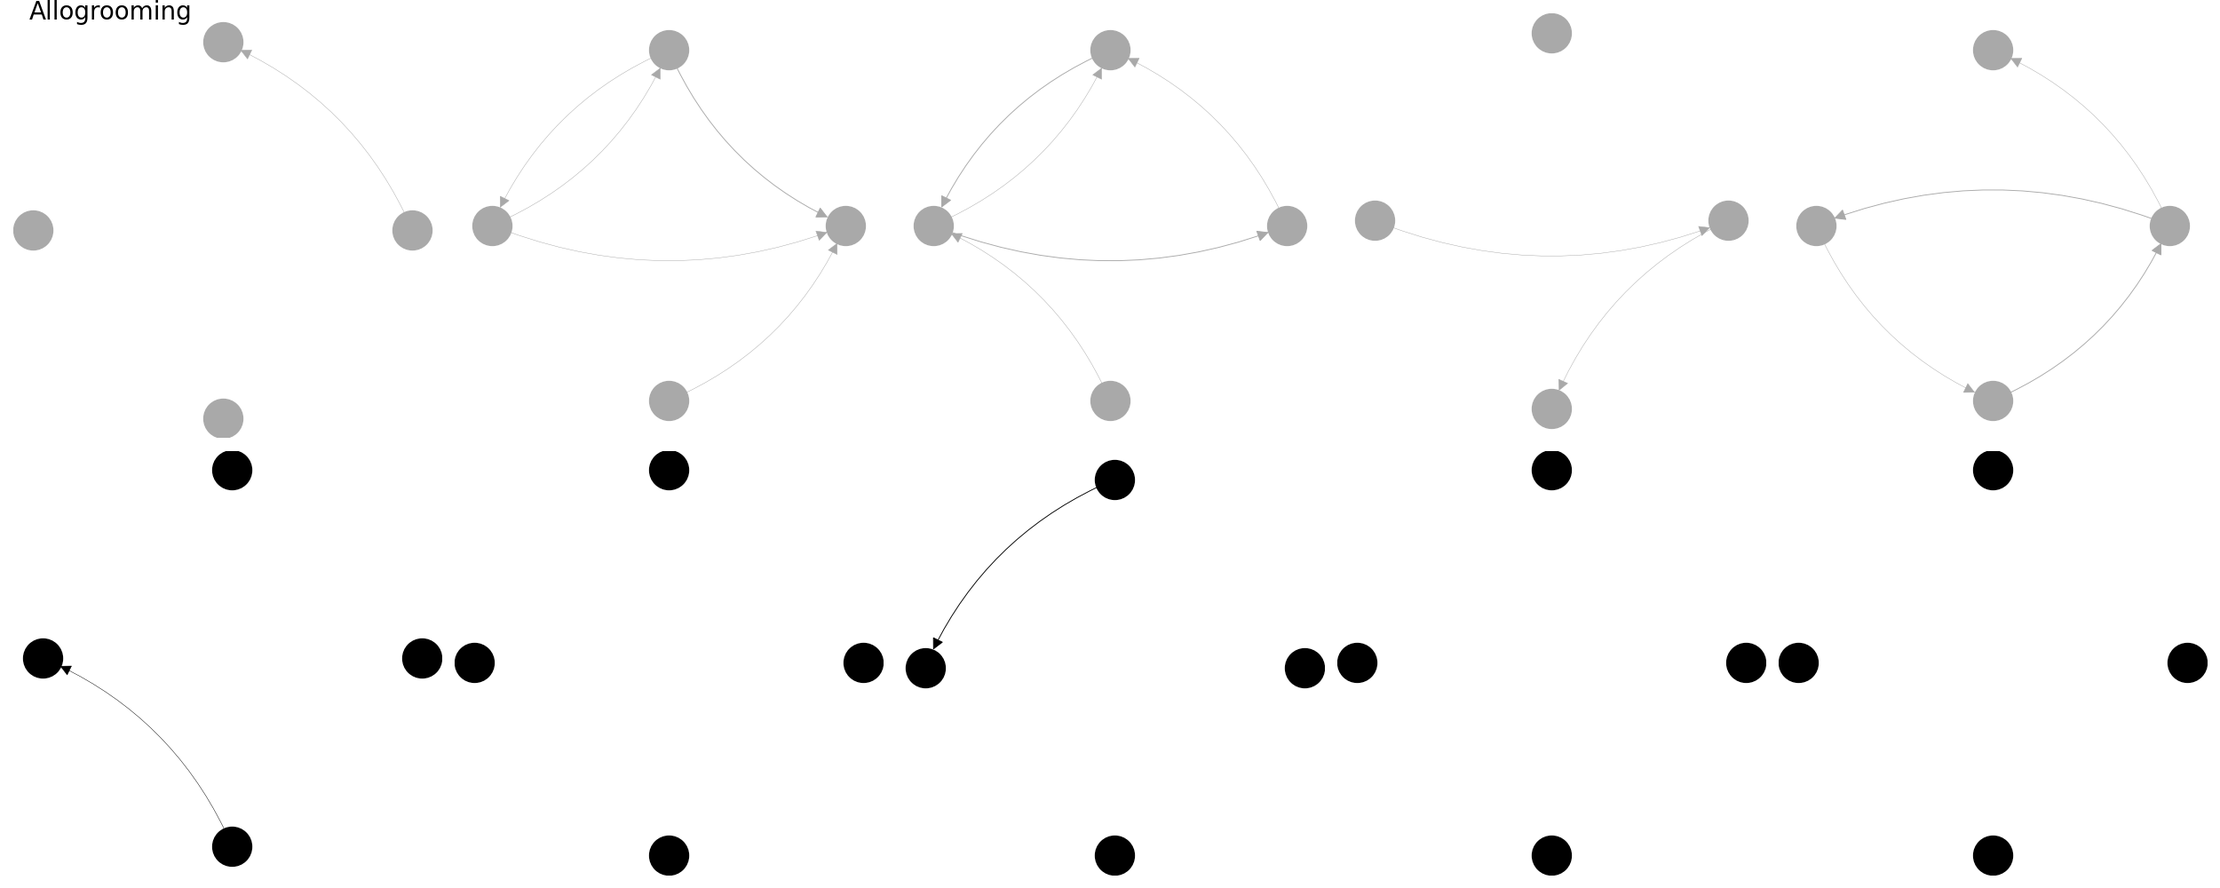
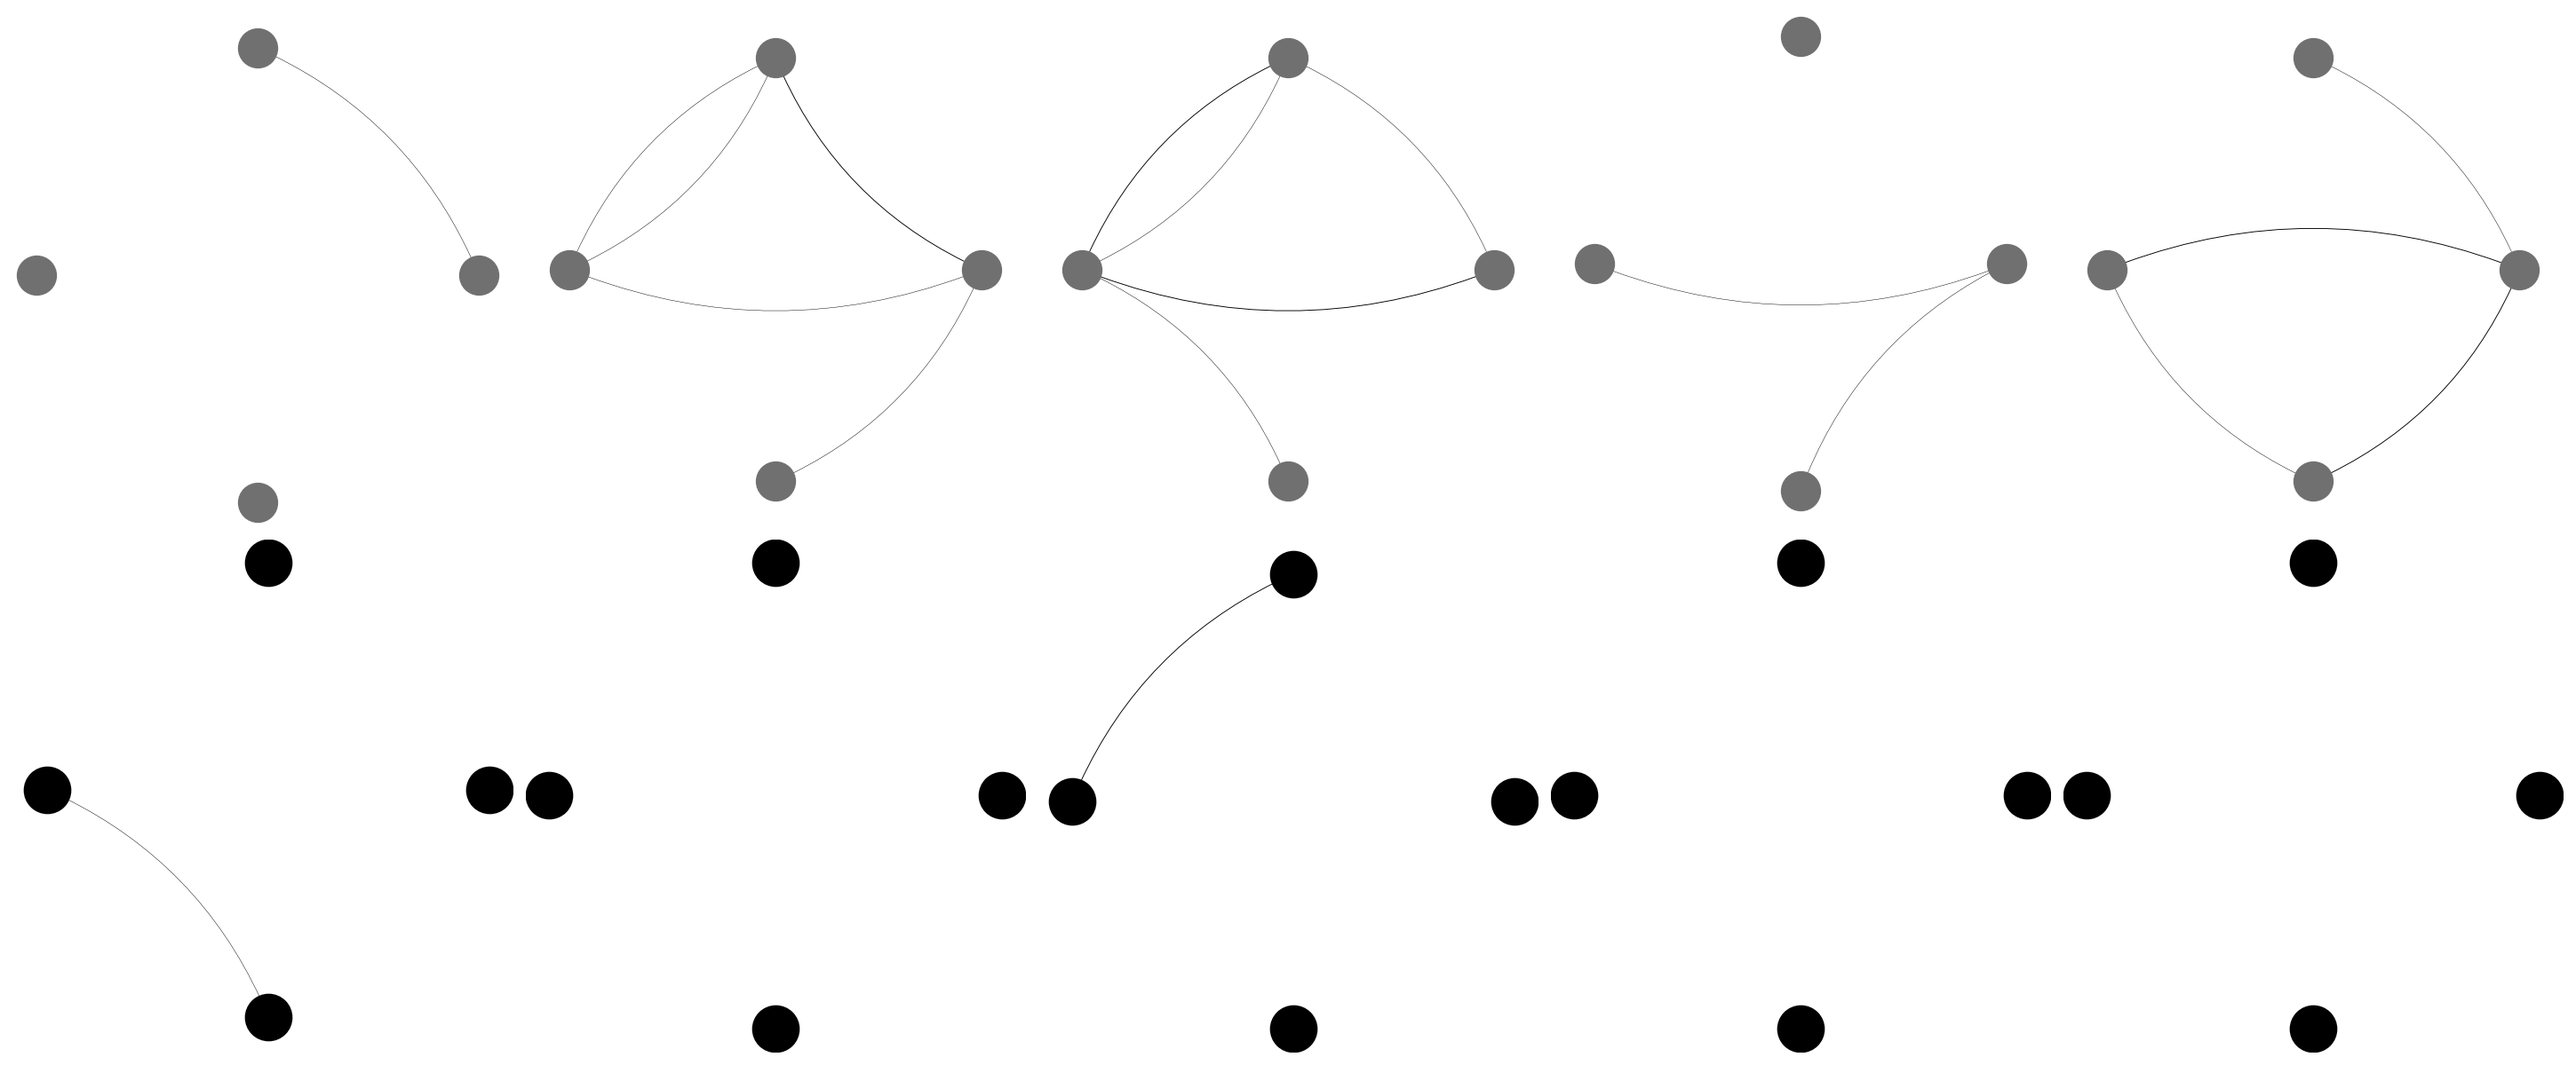
update sna plotting coloring

diff --git a/clean/SNA_plotting.py b/clean/SNA_plotting.py
@@ -135,6 +135,9 @@ STRF = 'Struggle at Feeder'
 #                                   #
 #####################################
 
+
+#---- visualize all batches indvidually ----#
+
 for b in Batches:
 #---- load data ----#
     Data= load_data(os.path.join(Path,f'Batch-B{b}.csv'))
@@ -163,15 +166,59 @@ for b in Batches:
     plt.show()
 
 
+#####################################
+#                                   #
+#        CREATE FIGURE 4(G)         #
+#                                   #
+#####################################
 
-
-######## DEV #########
-
-
-# fig, ax = plt.subplots(2,5, sharex = True)
-
+#---- STRUGGLE AT FEEDER ----#
 
 fig, all_axes = plt.subplots(2, 5, figsize=(25, 10))
+#---- EXAMPLE BATCHES----#
+Data= load_data(os.path.join(Path,f'Batch-B2.csv'))
+DataDays = date2day(Data)
+animals = list(numpy.unique(DataDays[:,7]))
+days = list(numpy.unique(DataDays[:,-1]))
+Graphs = dict()
+for d in days:
+    behav = get_subset(DataDays, day = d, action = ' STR.F')
+    c = get_conf_matrix(animals, behav)
+    Graphs[d] = get_digraph(c)
+
+for d in days:
+    edges = Graphs[d].edges
+    weights = [Graphs[d][u][v]['weight'] for u,v in edges]
+    pos = networkx.get_node_attributes(Graphs[d],'pos')
+    networkx.draw_circular(Graphs[d], connectionstyle="arc3,rad=0.2", width = numpy.array(weights)/3, arrowstyle = '-', edge_color = 'black', node_color = '#707070', node_size = 1000, ax = all_axes[0,int(float(d))-1])
+
+Data= load_data(os.path.join(Path,f'Batch-B8.csv'))
+DataDays = date2day(Data)
+animals = list(numpy.unique(DataDays[:,7]))
+days = list(numpy.unique(DataDays[:,-1]))
+Graphs = dict()
+for d in days:
+    behav = get_subset(DataDays, day = d, action = ' STR.F')
+    c = get_conf_matrix(animals, behav)
+    Graphs[d] = get_digraph(c)
+
+for d in days:
+    edges = Graphs[d].edges
+    weights = [Graphs[d][u][v]['weight'] for u,v in edges]
+    pos = networkx.get_node_attributes(Graphs[d],'pos')
+    networkx.draw_circular(Graphs[d], connectionstyle="arc3,rad=0.2", arrowstyle = '-', width = numpy.array(weights)/3, edgecolors = 'black', node_color = 'black', linewidths = 7, node_size = 1000, ax = all_axes[1,int(float(d))-1])
+
+all_axes[0,0].set_ylabel('asd',size = 10)
+all_axes[1,0].set_ylabel('asd',size = 10)
+all_axes[0,0].tick_params(labelleft=True)
+plt.tight_layout()
+# plt.suptitle('Struggle at feeder', fontsize = 20, x=0.05, y=1)#horizontalalignment='left')
+plt.show()
+
+
+#---- ALLOGROOMING ----#
+
+fig, all_axes = plt.subplots(2, 5, figsize=(29, 12))
 #---- EXAMPLE BATCHES----#
 Data= load_data(os.path.join(Path,f'Batch-B2.csv'))
 DataDays = date2day(Data)
@@ -187,7 +234,7 @@ for d in days:
     edges = Graphs[d].edges
     weights = [Graphs[d][u][v]['weight'] for u,v in edges]
     pos = networkx.get_node_attributes(Graphs[d],'pos')
-    networkx.draw_circular(Graphs[d], connectionstyle="arc3,rad=0.2", width = numpy.array(weights)/3, arrowsize = 20, edge_color = 'darkgrey', node_color = 'darkgrey' , node_size = 1000, ax = all_axes[0,int(float(d))-1])
+    networkx.draw_circular(Graphs[d], connectionstyle="arc3,rad=0.2", width = numpy.array(weights)/3, arrowstyle = '-', edge_color = 'black', node_color = '#707070', node_size = 1000, ax = all_axes[0,int(float(d))-1])
 
 Data= load_data(os.path.join(Path,f'Batch-B8.csv'))
 DataDays = date2day(Data)
@@ -203,16 +250,13 @@ for d in days:
     edges = Graphs[d].edges
     weights = [Graphs[d][u][v]['weight'] for u,v in edges]
     pos = networkx.get_node_attributes(Graphs[d],'pos')
-    networkx.draw_circular(Graphs[d], connectionstyle="arc3,rad=0.2", arrowsize = 20, width = numpy.array(weights)/3, edgecolors = 'black', node_color = 'black' , node_size = 1000, ax = all_axes[1,int(float(d))-1])
-
+    networkx.draw_circular(Graphs[d], connectionstyle="arc3,rad=0.2", arrowstyle = '-', width = numpy.array(weights)/3, edgecolors = 'black', node_color = 'black', linewidths = 7, node_size = 1000, ax = all_axes[1,int(float(d))-1])
 
 all_axes[0,0].set_ylabel('asd',size = 10)
 all_axes[1,0].set_ylabel('asd',size = 10)
 all_axes[0,0].tick_params(labelleft=True)
-
 plt.tight_layout()
-# plt.suptitle('Struggle at feeder', fontsize = 20, x=0.05, y=1)#horizontalalignment='left')
-plt.suptitle('Allogrooming', fontsize = 20, x=0.05, y=1)#horizontalalignment='left')
+# plt.suptitle('Allogrooming', fontsize = 20, x=0.05, y=1)#horizontalalignment='left')
 plt.show()
 
 
